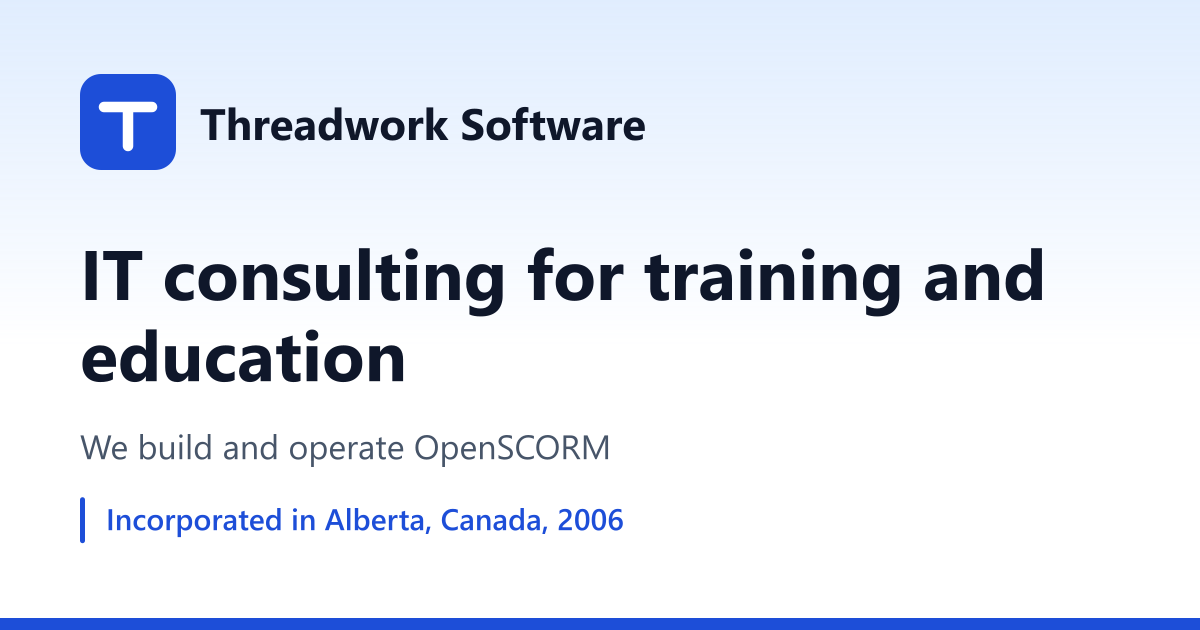
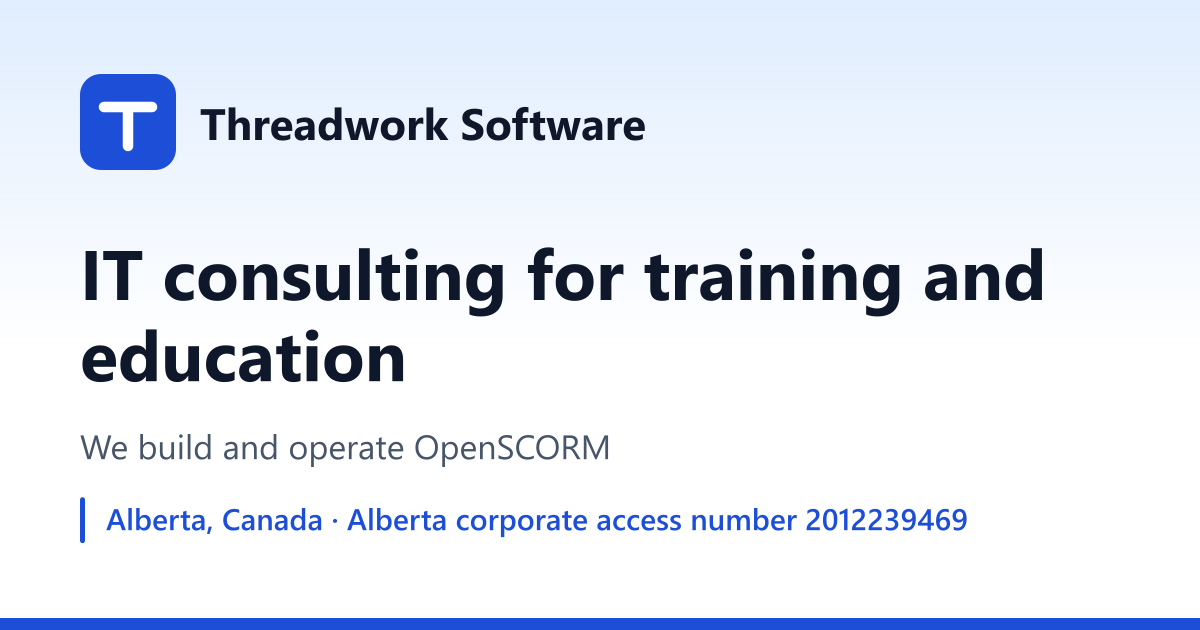
refactor: reframe the page off the incorporation date (OQ-458 ruling 1, broad)
This is the broad reading of OQ-458 ruling 1, on a branch so that Kyle can rule
by merging it or closing it. main carries the narrow reading, which is the site
as written. Neither is a decision; both exist so the decision is cheap.

The broad reading applies Kyle's OQ-423 ruling to this site: do not lean on the
2006 incorporation date as a narrative, and use only entity name, jurisdiction,
registration number, named founders, and public AGPL code. So every claim built
on duration goes, and the facts a reader can look up stay.

What changed, by surface:

Hero. The headline "20 years of building software for training and compliance
teams" becomes the tagline half of the approved page title, and the badge
carries the jurisdiction and the Alberta corporate access number instead of the
founding year. The "Since 2006" clause leaves the body paragraph.

History. Two milestones counted years rather than saying what was built, and
both are gone: the 2006 incorporation entry and "Two decades of consulting".
One capability entry replaces them. The rename disclosure stays, because it
answers a WHOIS on a 2026 domain and DEC-320 ruling 3b put it there on purpose;
only its "younger than the business by twenty years" clause drops. Section title
and lead no longer frame the section as a duration argument.

Verify. The facts table is untouched, including the incorporation date: the
registration number is on the approved list, and stripping the record would cost
[…]

Changed region(s): [[0.0925, 0.7841, 0.8017, 0.8444]]

diff --git a/src/config.ts b/src/config.ts
@@ -69,10 +69,19 @@ export const PRODUCT = {
  * one copy of the text.
  */
 export const PROVENANCE_FAQ = [
+  // BROAD READING of OQ-458 ruling 1. This entry used to ask how long the
+  // company had been in business and answer "Since 2006", which made duration
+  // the lead claim of both the visible Verify block and the FAQPage structured
+  // data. It now answers the question a diligence reader is actually asking,
+  // whether this is a company formed last year, using the facts on the approved
+  // OQ-423 list: entity, jurisdiction, registration number, and the rename.
+  //
+  // Parity is automatic, as before: this one array feeds the visible copy and
+  // the JSON-LD, so they cannot drift.
   {
-    question: 'How long has Threadwork Software been in business?',
+    question: 'Is Threadwork Software a newly formed company?',
     answer:
-      'Since 2006. The corporation was registered in Alberta, Canada on February 16, 2006 under Alberta corporate access number 2012239469, and has operated continuously since. It adopted the Threadwork Software name in January 2026, which was a name change to an existing company rather than the formation of a new one: the same corporation, the same access number, and the same 2006 incorporation date.',
+      'No. It is an existing Alberta corporation, registered in Alberta, Canada under Alberta corporate access number 2012239469, and it has operated continuously since registration. It adopted the Threadwork Software name in January 2026, which was a name change to an existing company rather than the formation of a new one: the same corporation, the same access number, and the same incorporation date carry forward. The registry entry is the record to check.',
   },
   {
     question: 'Why was threadworksoftware.com only registered in 2026?',
